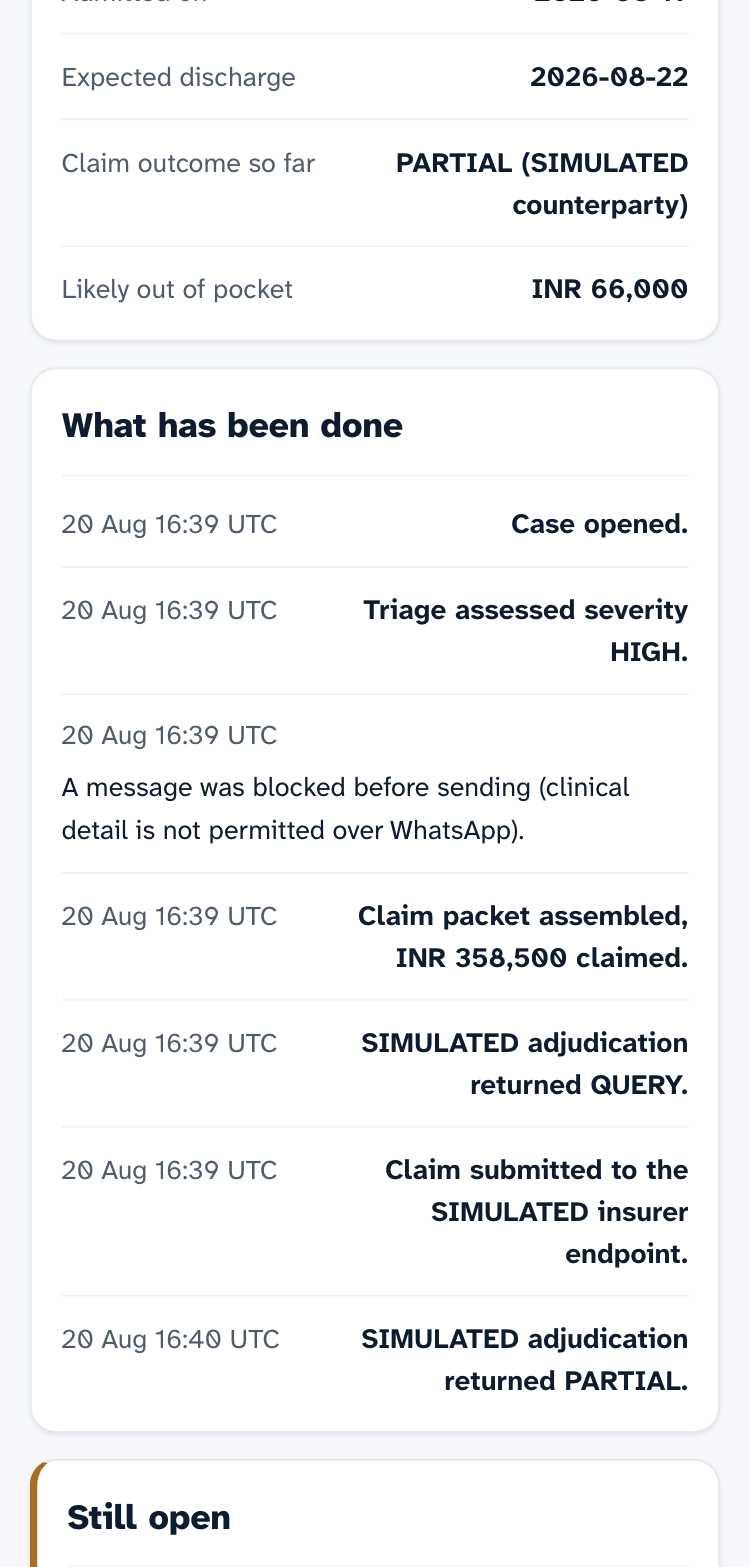
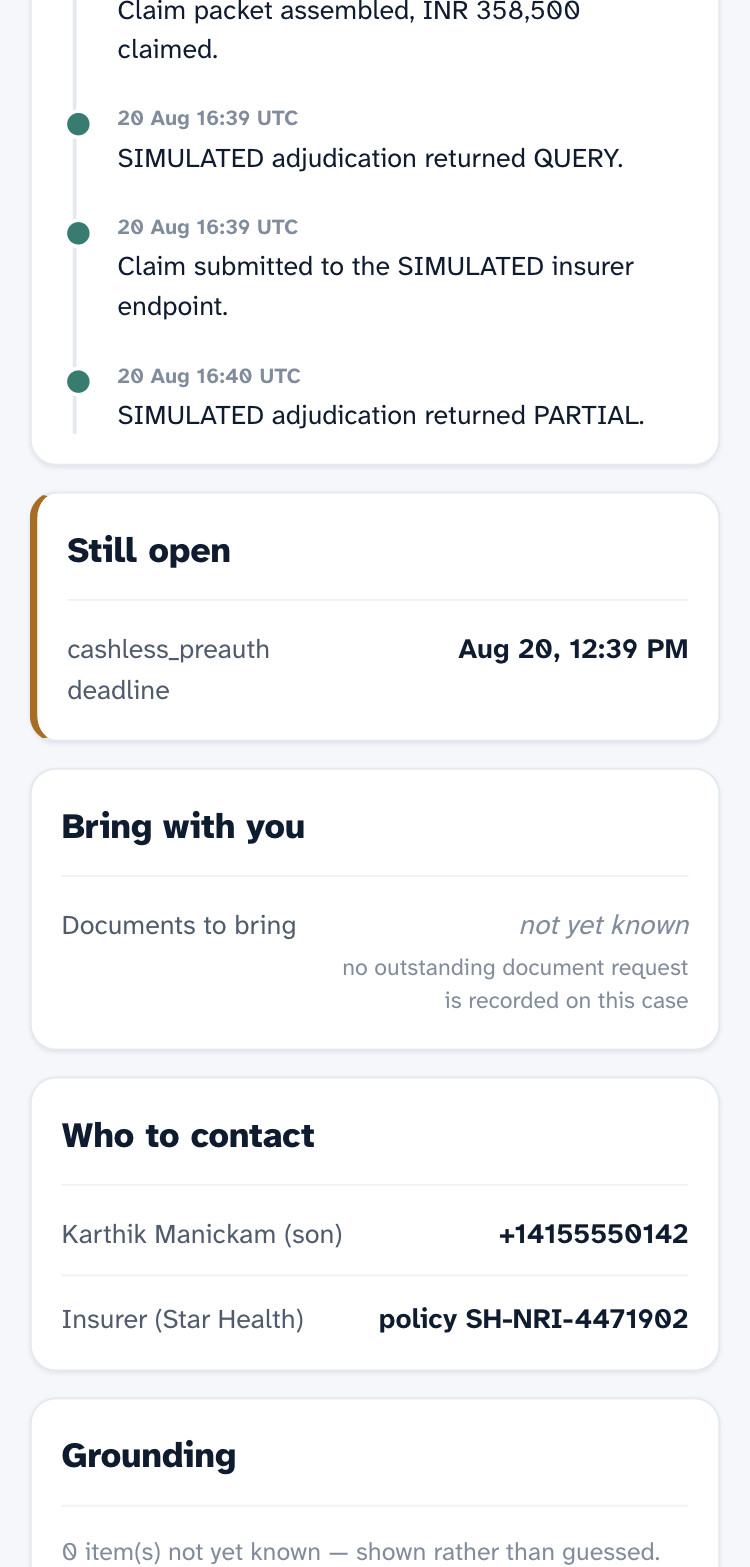
Render the arrival activity list as a timeline, and humanise ISO timestamps
The alignment nit was a semantic mismatch: entries under What has been done are
timeline events, not label/value pairs, so right-aligning them fought the
content and a fifty-character sentence broke into three bold right-ragged lines.
They now render the way the Now tab renders the chain — a quiet timestamp above
the event, left aligned.

Fixing that exposed something worse directly beneath it. Still open was printing
the SLA deadline as a raw ISO string, 2026-08-20T17:39:40.795665+00:00, wrapping
across two lines and reading as a machine dump. Timestamps in the brief are now
formatted for a person. The value is unchanged; only its rendering is.

182 tests green. Display only — triage, tpa, comms and provenance show no diff.

diff --git a/anbu_care/webui/index.html b/anbu_care/webui/index.html
@@ -267,6 +267,16 @@ function describe(r){
   }
 }
 const inr = n => "₹" + Number(n).toLocaleString("en-IN");
+// The brief returns timestamps as ISO strings. Printing 2026-08-20T17:39:40
+// .795665+00:00 verbatim wraps across two lines and reads as a machine dump;
+// format it for a person. Display only — the value is unchanged.
+function human(v){
+  if(typeof v!=="string") return v;
+  if(!/^\d{4}-\d{2}-\d{2}T\d{2}:\d{2}/.test(v)) return v;
+  const d=new Date(v);
+  return isNaN(d) ? v : d.toLocaleString(undefined,
+    {day:"2-digit",month:"short",hour:"2-digit",minute:"2-digit"});
+}
 // Find when a document of the named kind was stored, so the claim timeline can
 // say when the gap was filled rather than leaving the two tabs to contradict.
 function resolvedAt(kind){
@@ -330,14 +340,21 @@ function vBrief(){
   if(S.brief.__denied) return denied(S.brief.detail,"The arrival brief");
   const b=S.brief.brief;
   // Prose gets a stacked row; short facts keep the label/value pairing.
-  const f=x=>row(x.label, x.known?esc(x.value):unknown(x.source?.note),
+  const f=x=>row(x.label, x.known?esc(human(x.value)):unknown(x.source?.note),
                  (x.value||"").length>60 ? "stack" : "");
   return `${SYNTH}
   ${title("Arrival brief","What is waiting when you land, and what is not yet known.")}
   <div class="strip note"><b>State as of ${esc(b.as_of?new Date(b.as_of).toLocaleString():"no activity recorded")}</b><br>
     A snapshot of what has been recorded — not a live view. Anbu Care does not monitor continuously.</div>
   <div class="card"><h2>Where things stand</h2>${(b.facts||[]).map(f).join("")}</div>
-  <div class="card"><h2>What has been done</h2>${(b.actions_taken||[]).map(f).join("")||unknown("nothing recorded yet")}</div>
+  <div class="card"><h2>What has been done</h2>
+    ${(b.actions_taken||[]).length ? `<div class="tl">
+      ${b.actions_taken.map(x=>`<div class="ev on">
+        <div class="t">${esc(x.label)}</div>
+        <div class="d">${x.known?esc(human(x.value)):unknown(x.source?.note)}</div>
+      </div>`).join("")}
+    </div>` : unknown("nothing recorded yet")}
+  </div>
   <div class="card edge-amber"><h2>Still open</h2>${(b.pending||[]).map(f).join("")}</div>
   <div class="card"><h2>Bring with you</h2>${(b.bring_with_you||[]).map(f).join("")}</div>
   <div class="card"><h2>Who to contact</h2>${(b.contacts||[]).map(f).join("")}</div>
